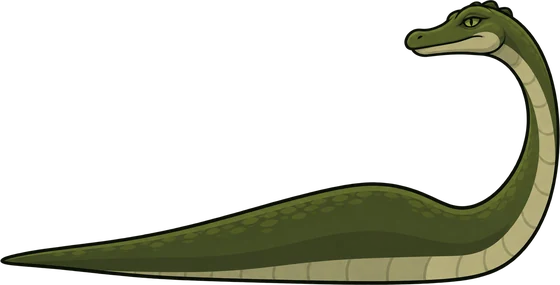
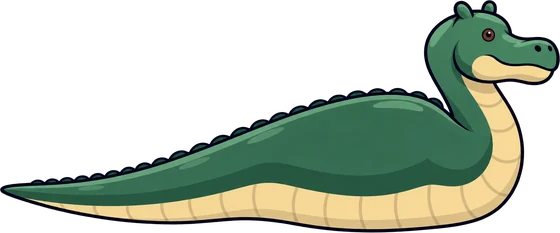
Wave Rider site: the toy gets AHEAD / ASTERN pedals, metal coins and the new Nessie
The game's pedals lost their baked words on 2026-10-10 and its coins carry their value; the toy and the art
export follow, and the backdrops pick up the game's checker-rim fix.

diff --git a/waverider/index.html b/waverider/index.html
@@ -24,7 +24,7 @@
   <link rel="preload" href="assets/fonts/lilita-one.woff2" as="font" type="font/woff2" crossorigin />
   <link rel="preload" href="assets/fonts/nunito-700.woff2" as="font" type="font/woff2" crossorigin />
   <link rel="stylesheet" href="assets/fonts/fonts.css" />
-  <link rel="stylesheet" href="assets/css/style.css?v=20261010" />
+  <link rel="stylesheet" href="assets/css/style.css?v=20261019" />
   <script>document.documentElement.classList.remove("no-js");</script>
 </head>
 <body>
@@ -117,18 +117,18 @@
         </header>
 
         <div class="toy rise" data-toy>
-          <canvas aria-label="A live, playable sea: a boat riding animated waves. Hold throttle to go."></canvas>
+          <canvas aria-label="A live, playable sea: a boat riding animated waves. Hold AHEAD to go."></canvas>
           <div class="toy__hud" aria-hidden="true">
             <span class="toy__coins"><img src="assets/img/ui/coin.webp" width="40" height="40" alt="" /><span data-coins>0</span></span>
             <span class="toy__dist"><span data-dist>0 m</span><span class="toy__best" data-best>Best 0 m</span></span>
           </div>
           <div class="toy__pops" data-pops aria-live="polite"></div>
-          <p class="toy__hint" data-hint>Hold throttle</p>
-          <button class="pedal pedal--brake" type="button" data-pedal="brake" aria-label="Brake. In the air, tips the nose down">
-            <img src="assets/img/ui/pedal-brake.webp" width="360" height="371" alt="" />
+          <p class="toy__hint" data-hint>Hold AHEAD</p>
+          <button class="pedal pedal--brake" type="button" data-pedal="brake" aria-label="Astern: brake, and reverse from a standstill. In the air, tips the nose down">
+            <img src="assets/img/ui/pedal-brake.webp?v=20261019" width="360" height="371" alt="" /><span class="pedal__word">Astern</span>
           </button>
-          <button class="pedal pedal--throttle" type="button" data-pedal="throttle" aria-label="Throttle. In the air, lifts the nose">
-            <img src="assets/img/ui/pedal-throttle.webp" width="360" height="327" alt="" />
+          <button class="pedal pedal--throttle" type="button" data-pedal="throttle" aria-label="Ahead: throttle. In the air, lifts the nose">
+            <img src="assets/img/ui/pedal-throttle.webp?v=20261019" width="360" height="327" alt="" /><span class="pedal__word">Ahead</span>
           </button>
         </div>
 
@@ -151,9 +151,9 @@
         </div>
 
         <ol class="howto">
-          <li class="rise"><b>Climb</b>Hold <span class="key">→</span> THROTTLE to build speed up the back of a wave.</li>
+          <li class="rise"><b>Climb</b>Hold <span class="key">→</span> AHEAD to build speed up the back of a wave.</li>
           <li class="rise"><b>Launch</b>Keep it pinned over the crest and the sea throws you into the air.</li>
-          <li class="rise"><b>Land it</b>In the air THROTTLE lifts the nose and <span class="key">←</span> BRAKE drops it. Match the water's angle as you touch down.</li>
+          <li class="rise"><b>Land it</b>In the air AHEAD lifts the nose and <span class="key">←</span> ASTERN drops it. Match the water's angle as you touch down.</li>
         </ol>
         <p class="toy-note">A toy, built in your browser from the game's own art. In the game, every hull floats on real buoyancy and the sea gets much bigger.</p>
       </div>
@@ -570,8 +570,8 @@
     </div>
   </footer>
 
-  <script src="assets/js/main.js?v=20261010" defer></script>
-  <script src="assets/js/art.js?v=20261010" defer></script>
-  <script src="assets/js/sea.js?v=20261010" defer></script>
+  <script src="assets/js/main.js?v=20261019" defer></script>
+  <script src="assets/js/art.js?v=20261019" defer></script>
+  <script src="assets/js/sea.js?v=20261019" defer></script>
 </body>
 </html>

diff --git a/waverider/assets/js/sea.js b/waverider/assets/js/sea.js
@@ -74,7 +74,7 @@
   var ACTORS = {
     paddleboarder: { w: 3.2, sink: 0.08, say: "Sorry!", topple: true },
     hippo: { w: 3.6, sink: 0.55, say: "Hey!", lift: 7.5 },
-    nessie: { w: 5.2, sink: 0.5, say: "Nessie hop", lift: 6 },
+    nessie: { w: 6.2, sink: 0.32, say: "Nessie hop", lift: 6 },   // one whole floating drawing since 2026-10-13
     whale: { w: 9.5, sink: 0.62, say: "Whale hop", lift: 5.5 },
     manta: { w: 3.2, leap: true, say: "Manta!" }
   };
@@ -354,7 +354,10 @@
       var n = 5 + Math.floor(Math.random() * 3);
       for (var i = 0; i < n; i++) {
         var u = i / (n - 1);
-        coins.push({ x: run.nextCoins + i * 1.5, lift: 0.5 + Math.sin(u * Math.PI) * 0.9, got: false });
+        // The game's arcs: bronze 25 at the ends, silver 50, gold 100 at the top (Coin_025/050/100).
+        var d = Math.abs(u - 0.5);
+        var v = d < 0.15 ? 100 : d < 0.35 ? 50 : 25;
+        coins.push({ x: run.nextCoins + i * 1.5, lift: 0.5 + Math.sin(u * Math.PI) * 0.9, got: false, v: v });
       }
       run.nextCoins += 30 + Math.random() * 26;
     }
@@ -393,7 +396,7 @@
       if (dx * dx + dy * dy < 1.7) {
         c.got = true;
         c.gotT = state.t;
-        run.coins += 100;
+        run.coins += c.v || 100;
       }
     }
   }
@@ -725,7 +728,7 @@
   }
 
   function drawCoins() {
-    var im = img("coin");
+    var plain = img("coin");
     var s = 0.7 * ppm;
     for (var i = 0; i < coins.length; i++) {
       var c = coins[i];
@@ -740,6 +743,7 @@
       }
       var spin = Math.abs(Math.cos(state.t * 3 + c.x));
       var w = s * (0.35 + 0.65 * spin);
+      var im = img("coin" + c.v) || plain;
       if (im) ctx.drawImage(im, x - w / 2, y - s / 2, w, s);
       ctx.globalAlpha = 1;
     }

diff --git a/waverider/assets/js/art.js b/waverider/assets/js/art.js
@@ -46,16 +46,16 @@ window.WR_ART = {
  },
  "actor:nessie": {
   "box": [
-   0.02474,
-   0.12305,
-   0.98112,
-   0.85352
+   0.01107,
+   0.17773,
+   0.99674,
+   0.79199
   ],
   "frame": [
    1536,
    1024
   ],
-  "h": 285,
+  "h": 233,
   "src": "assets/img/actors/nessie.webp",
   "w": 560
  },
@@ -328,5 +328,50 @@ window.WR_ART = {
   "h": 833,
   "src": "assets/img/captain/standing.webp",
   "w": 401
+ },
+ "coin100": {
+  "box": [
+   0.13955,
+   0.12281,
+   0.85486,
+   0.84848
+  ],
+  "frame": [
+   1254,
+   1254
+  ],
+  "h": 122,
+  "src": "assets/img/ui/coin-100.webp",
+  "w": 120
+ },
+ "coin25": {
+  "box": [
+   0.11962,
+   0.10447,
+   0.88038,
+   0.87959
+  ],
+  "frame": [
+   1254,
+   1254
+  ],
+  "h": 122,
+  "src": "assets/img/ui/coin-25.webp",
+  "w": 120
+ },
+ "coin50": {
+  "box": [
+   0.08852,
+   0.06938,
+   0.91148,
+   0.90909
+  ],
+  "frame": [
+   1254,
+   1254
+  ],
+  "h": 122,
+  "src": "assets/img/ui/coin-50.webp",
+  "w": 120
  }
 };

diff --git a/waverider/assets/css/style.css b/waverider/assets/css/style.css
@@ -690,6 +690,24 @@ a.badge:hover { transform: translateY(-2px); }
   transition: transform 0.06s ease, filter 0.06s ease;
 }
 .pedal img { width: 100%; height: 100%; object-fit: contain; pointer-events: none; }
+/* The word is drawn over word-less plate art, as in the game (BoatControls: AHEAD / ASTERN since 2026-10-10). */
+.pedal { container-type: inline-size; }
+.pedal__word {
+  position: absolute;
+  left: 50%;
+  top: 76%;
+  transform: translate(-50%, -50%);
+  font-family: var(--display);
+  font-size: 15cqw;
+  line-height: 1;
+  letter-spacing: 0.02em;
+  text-transform: uppercase;
+  color: var(--paper);
+  -webkit-text-stroke: 0.2em var(--ink);
+  paint-order: stroke fill;
+  pointer-events: none;
+}
+.pedal--throttle .pedal__word { top: 73%; }
 .pedal--brake { left: 2.5%; }
 .pedal--throttle { right: 2.5%; }
 .pedal.is-down { transform: translateY(4px) scale(0.95); filter: brightness(1.18); }

diff --git a/waverider/privacy.html b/waverider/privacy.html
@@ -21,7 +21,7 @@
   <link rel="preload" href="assets/fonts/lilita-one.woff2" as="font" type="font/woff2" crossorigin />
   <link rel="preload" href="assets/fonts/nunito-700.woff2" as="font" type="font/woff2" crossorigin />
   <link rel="stylesheet" href="assets/fonts/fonts.css" />
-  <link rel="stylesheet" href="assets/css/style.css?v=20261010" />
+  <link rel="stylesheet" href="assets/css/style.css?v=20261019" />
   <script>document.documentElement.classList.remove("no-js");</script>
 </head>
 <body>
@@ -192,6 +192,6 @@
     </div>
   </footer>
 
-  <script src="assets/js/main.js?v=20261010" defer></script>
+  <script src="assets/js/main.js?v=20261019" defer></script>
 </body>
 </html>

diff --git a/waverider/support.html b/waverider/support.html
@@ -21,7 +21,7 @@
   <link rel="preload" href="assets/fonts/lilita-one.woff2" as="font" type="font/woff2" crossorigin />
   <link rel="preload" href="assets/fonts/nunito-700.woff2" as="font" type="font/woff2" crossorigin />
   <link rel="stylesheet" href="assets/fonts/fonts.css" />
-  <link rel="stylesheet" href="assets/css/style.css?v=20261010" />
+  <link rel="stylesheet" href="assets/css/style.css?v=20261019" />
   <script>document.documentElement.classList.remove("no-js");</script>
 </head>
 <body>
@@ -224,6 +224,6 @@
     </div>
   </footer>
 
-  <script src="assets/js/main.js?v=20261010" defer></script>
+  <script src="assets/js/main.js?v=20261019" defer></script>
 </body>
 </html>

diff --git a/waverider/terms.html b/waverider/terms.html
@@ -21,7 +21,7 @@
   <link rel="preload" href="assets/fonts/lilita-one.woff2" as="font" type="font/woff2" crossorigin />
   <link rel="preload" href="assets/fonts/nunito-700.woff2" as="font" type="font/woff2" crossorigin />
   <link rel="stylesheet" href="assets/fonts/fonts.css" />
-  <link rel="stylesheet" href="assets/css/style.css?v=20261010" />
+  <link rel="stylesheet" href="assets/css/style.css?v=20261019" />
   <script>document.documentElement.classList.remove("no-js");</script>
 </head>
 <body>
@@ -159,6 +159,6 @@
     </div>
   </footer>
 
-  <script src="assets/js/main.js?v=20261010" defer></script>
+  <script src="assets/js/main.js?v=20261019" defer></script>
 </body>
 </html>

diff --git a/waverider/play.html b/waverider/play.html
@@ -71,7 +71,7 @@
   <link rel="preload" href="assets/fonts/lilita-one.woff2" as="font" type="font/woff2" crossorigin />
   <link rel="preload" href="assets/fonts/nunito-700.woff2" as="font" type="font/woff2" crossorigin />
   <link rel="stylesheet" href="assets/fonts/fonts.css" />
-  <link rel="stylesheet" href="assets/css/style.css?v=20261010" />
+  <link rel="stylesheet" href="assets/css/style.css?v=20261019" />
 </head>
 <body>
   <header class="nav">

diff --git a/waverider/404.html b/waverider/404.html
@@ -10,7 +10,7 @@
   <link rel="apple-touch-icon" href="assets/img/brand/icon-180.png" />
   <link rel="preload" href="assets/fonts/lilita-one.woff2" as="font" type="font/woff2" crossorigin />
   <link rel="stylesheet" href="assets/fonts/fonts.css" />
-  <link rel="stylesheet" href="assets/css/style.css?v=20261010" />
+  <link rel="stylesheet" href="assets/css/style.css?v=20261019" />
 </head>
 <body>
   <header class="nav">

diff --git a/waverider/tools/build-assets.py b/waverider/tools/build-assets.py
@@ -193,6 +193,10 @@ def ui():
     for name in ("Engine", "Hull", "Propeller", "Trim", "Fuel"):
         sprite(ART / f"UI/Skin/Ui_{name}.png", f"ui/{name.lower()}.webp", 200)
     sprite(ART / "Pickups/Coin.png", "ui/coin.webp", 160)
+    # The sea's coins carry their value since 2026-10-12 (bronze 25, silver 50, gold 100); the plain gold one stays the
+    # counter's icon, as in the game's HUD.
+    for value in (25, 50, 100):
+        sprite(ART / f"Pickups/Coin_{value:03d}.png", f"ui/coin-{value}.webp", 120, f"coin{value}")
     for name in ("Win_Mission", "Win_Badge", "Win_Rank"):
         sprite(ART / f"UI/{name}.png", f"ui/{name.lower().replace('_', '-')}.webp", 240)
 
